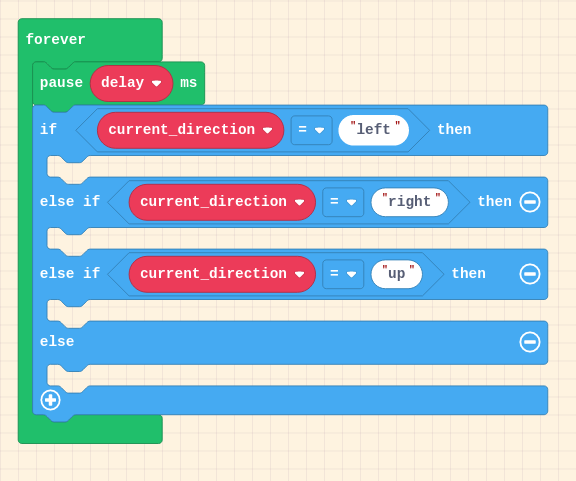
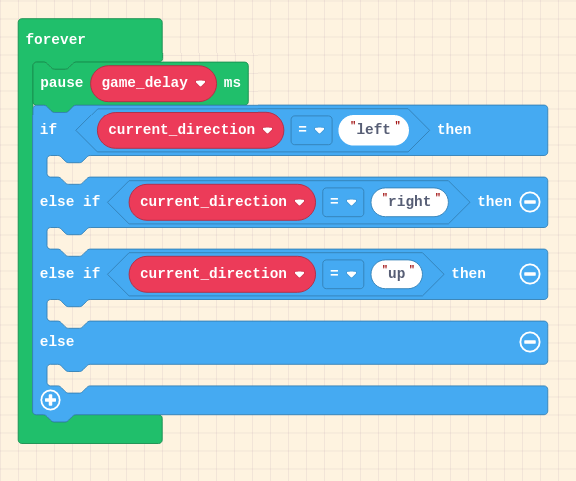
final eyes 2024 update

Changed region(s): [[0.0625, 0.1247, 0.4375, 0.2183]]

diff --git a/eyes-2024/index.html b/eyes-2024/index.html
@@ -254,19 +254,19 @@
 
       <p>Let’s talk about the idea of a game loop. This is a piece of code that runs at a set interval. MakeCode Arcade had a built in function for this, but we are going to create our own so that we can modify how fast the game runs. For this we will need a variable and a loop.</p>
 
-      <p>Start by creating a new variable called delay. This will be set to 640 (ms) in the On Start function.</p>
+      <p>Start by creating a new variable called game_delay. This will be set to 640 (ms) in the On Start function.</p>
 
       <p><img src="res/set-a-variable.png" alt="" /></p>
 
-      <p>We want to rename the variable to delay</p>
+      <p>We want to rename the variable to game_delay</p>
 
       <p><img src="res/rename.png" alt="" /></p>
 
-      <p>Set the variable name to <code class="language-plaintext highlighter-rouge">delay</code> and the value to <code class="language-plaintext highlighter-rouge">640</code>, and then sync it into the <code class="language-plaintext highlighter-rouge">on start</code> block</p>
+      <p>Set the variable name to <code class="language-plaintext highlighter-rouge">game_delay</code> and the value to <code class="language-plaintext highlighter-rouge">640</code>, and then sync it into the <code class="language-plaintext highlighter-rouge">on start</code> block</p>
 
       <p><img src="res/delay.png" alt="" /></p>
 
-      <p>Now we will use this delay in a forever loop. We will grab the <code class="language-plaintext highlighter-rouge">forever</code> block from the Loops module, and place in the Pause function.</p>
+      <p>Now we will use this global(game_delay) in a forever loop. We will grab the <code class="language-plaintext highlighter-rouge">forever</code> block from the Loops module, and place in the Pause function.</p>
 
       <p><img src="res/forever-and-pause.png" alt="" /></p>
 
@@ -360,7 +360,7 @@
       <p>Here is the structure of the code we have so far:</p>
 
       <div class="language-python highlighter-rouge"><div class="highlight"><pre class="highlight"><code><span class="k">def</span> <span class="nf">on_forever</span><span class="p">():</span>
-    <span class="n">pause</span><span class="p">(</span><span class="n">delay</span><span class="p">)</span>
+    <span class="n">pause</span><span class="p">(</span><span class="n">game_delay</span><span class="p">)</span>
     <span class="k">if</span> <span class="n">current_direction</span> <span class="o">==</span> <span class="s">"left"</span><span class="p">:</span>
         <span class="n">mySprite</span><span class="p">.</span><span class="n">x</span> <span class="o">+=</span> <span class="o">-</span><span class="mi">16</span>
     <span class="k">elif</span> <span class="n">current_direction</span> <span class="o">==</span> <span class="s">"right"</span><span class="p">:</span>
@@ -432,7 +432,7 @@
       <div class="language-python highlighter-rouge"><div class="highlight"><pre class="highlight"><code><span class="k">def</span> <span class="nf">on_forever</span><span class="p">():</span>
     <span class="k">global</span> <span class="n">current_direction</span>
     <span class="k">global</span> <span class="n">next_direction</span>
-    <span class="n">pause</span><span class="p">(</span><span class="n">delay</span><span class="p">)</span>
+    <span class="n">pause</span><span class="p">(</span><span class="n">game_delay</span><span class="p">)</span>
     <span class="k">if</span> <span class="n">current_direction</span> <span class="o">==</span> <span class="s">"left"</span><span class="p">:</span>
         <span class="n">mySprite</span><span class="p">.</span><span class="n">x</span> <span class="o">+=</span> <span class="o">-</span><span class="mi">16</span>
     <span class="k">elif</span> <span class="n">current_direction</span> <span class="o">==</span> <span class="s">"right"</span><span class="p">:</span>
@@ -548,7 +548,7 @@
       <p>Let’s also make sure we are calling this function right before we move. Find your on_forever function and add to it:</p>
 
       <div class="language-python highlighter-rouge"><div class="highlight"><pre class="highlight"><code><span class="k">def</span> <span class="nf">on_forever</span><span class="p">():</span>
-    <span class="n">pause</span><span class="p">(</span><span class="n">delay</span><span class="p">)</span>
+    <span class="n">pause</span><span class="p">(</span><span class="n">game_delay</span><span class="p">)</span>
     <span class="n">grow</span><span class="p">()</span>
     <span class="n">move</span><span class="p">()</span>
     <span class="n">turn</span><span class="p">()</span>
@@ -729,125 +729,218 @@
 
       <p>Okay, time to eat some food and grow our snake!</p>
 
-      <details>
-<summary>Complete code so far</summary>
-```
-def on_up_pressed():
-    global next_direction
-    next_direction = "up"
-controller.up.on_event(ControllerButtonEvent.PRESSED, on_up_pressed)
-
-def check_oob():
-    if mySprite.x &lt; 0 or mySprite.y &lt; 0 or mySprite.x &gt; scene.screen_width() or mySprite.y &gt; scene.screen_height():
-        game.set_game_over_message(False, "Game Over. Score: " + convert_to_text(length - 3))
-        game.game_over(False)
-
-def on_left_pressed():
-    global next_direction
-    next_direction = "left"
-controller.left.on_event(ControllerButtonEvent.PRESSED, on_left_pressed)
-
-def spawn_food():
-    global food_pickup, overlaps
-    food_pickup = sprites.create(assets.image("""
-        food
-    """), SpriteKind.food)
-    food_pickup.x += randint(-4, 4) * 16
-    food_pickup.y += randint(-3, 3) * 16
-    if food_pickup.overlaps_with(mySprite):
-        overlaps = True
-    for current_segment2 in tail_segments:
-        if food_pickup.overlaps_with(current_segment2):
-            overlaps = True
-    while overlaps == True:
-        overlaps = False
-        sprites.destroy(food_pickup)
-        food_pickup = sprites.create(assets.image("""
-            food
-        """), SpriteKind.food)
-        food_pickup.x += randint(-4, 4) * 16
-        food_pickup.y += randint(-3, 3) * 16
-        if food_pickup.overlaps_with(mySprite):
-            overlaps = True
-        for current_tail_segment in tail_segments:
-            if food_pickup.overlaps_with(current_tail_segment):
-                overlaps = True
-
-def on_right_pressed():
-    global next_direction
-    next_direction = "right"
-controller.right.on_event(ControllerButtonEvent.PRESSED, on_right_pressed)
-
-def grow():
-    global tail_segment
-    for current_segment in tail_segments:
-        sprites.change_data_number_by(current_segment, "ticks_remaining", -1)
-        if sprites.read_data_number(current_segment, "ticks_remaining") == 0:
-            sprites.destroy(current_segment)
-    tail_segment = sprites.create(assets.image("""
-        body
-    """), SpriteKind.enemy)
-    tail_segment.set_position(mySprite.x, mySprite.y)
-    tail_segments.append(tail_segment)
-    sprites.set_data_number(tail_segment, "ticks_remaining", length)
-def turn():
-    global current_direction
-    if current_direction == "left" or current_direction == "right":
-        if next_direction == "up":
-            current_direction = "up"
-        if next_direction == "down":
-            current_direction = "down"
-    if current_direction == "up" or current_direction == "down":
-        if next_direction == "left":
-            current_direction = "left"
-        if next_direction == "right":
-            current_direction = "right"
-
-def on_down_pressed():
-    global next_direction
-    next_direction = "down"
-controller.down.on_event(ControllerButtonEvent.PRESSED, on_down_pressed)
-
-def move():
-    if current_direction == "left":
-        mySprite.x += -16
-    elif current_direction == "right":
-        mySprite.x += 16
-    elif current_direction == "up":
-        mySprite.y += -16
-    else:
-        mySprite.y += 16
-tail_segment: Sprite = None
-tail_segments: List[Sprite] = []
-overlaps = False
-food_pickup: Sprite = None
-length = 0
-next_direction = ""
-current_direction = ""
-mySprite: Sprite = None
-mySprite = sprites.create(assets.image("""
-    face
-"""), SpriteKind.player)
-delay = 640
-current_direction = "down"
-next_direction = "down"
-length = 3
-spawn_food()
-
-def on_forever():
-    pause(delay)
-    grow()
-    move()
-    turn()
-    check_oob()
-forever(on_forever)
-```
-</details>
-
     </div></div></section>
 <section id="eatingfood"><button class="collapsible">Eating food</button><div class="text-content"><div class="text-inner">
 
-      <p>For our snake to grow it needs to be able to eat the food. So we need to check</p>
+      <p>For our snake to grow it needs to be able to eat the food. So we need to check if it overlapping with food, and if so, devour it! If it does, let’s do four things</p>
+      <ul>
+        <li>destory the food</li>
+        <li>we are going to speed up the game a big by decreasing the pause delay,</li>
+        <li>we are also going to spawn in a new food</li>
+        <li>we are going to increase the snakes length
+Let’s put all of this in a new function called <code class="language-plaintext highlighter-rouge">check_eat</code></li>
+      </ul>
+
+      <p>Challenge - you have the tools to do all of these things! It’s just checking collisions, setting variables and calling functions. Take a stab at writing it yourself first. Also, where are you going to call the check?</p>
+
+      <p>Extra challenge - because we ate food, all the existing segments should stick around for one extra tick. Can you figure out how to increment them all by one?</p>
+
+      <p>Solution:</p>
+      <div class="language-python highlighter-rouge"><div class="highlight"><pre class="highlight"><code><span class="k">def</span> <span class="nf">check_eat</span><span class="p">():</span>
+    <span class="k">global</span> <span class="n">game_delay</span>
+    <span class="k">global</span> <span class="n">length</span>
+    <span class="k">global</span> <span class="n">tail_segments</span>
+    <span class="k">if</span> <span class="n">mySprite</span><span class="p">.</span><span class="n">overlaps_with</span><span class="p">(</span><span class="n">food_pickup</span><span class="p">):</span>
+        <span class="n">game_delay</span> <span class="o">-=</span> <span class="mi">10</span>
+        <span class="n">length</span> <span class="o">+=</span> <span class="mi">1</span>
+        <span class="n">sprites</span><span class="p">.</span><span class="n">destroy</span><span class="p">(</span><span class="n">food_pickup</span><span class="p">)</span>
+        <span class="n">spawn_food</span><span class="p">()</span>
+        <span class="k">for</span> <span class="n">current_segment</span> <span class="ow">in</span> <span class="n">tail_segments</span><span class="p">:</span>
+            <span class="n">sprites</span><span class="p">.</span><span class="n">change_data_number_by</span><span class="p">(</span><span class="n">current_segment</span><span class="p">,</span> <span class="s">"ticks_remaining"</span><span class="p">,</span> <span class="mi">1</span><span class="p">)</span>
+</code></pre></div>      </div>
+
+      <p>I am calling this function in the forever-loop, after move:</p>
+      <div class="language-python highlighter-rouge"><div class="highlight"><pre class="highlight"><code><span class="k">def</span> <span class="nf">on_forever</span><span class="p">():</span>
+    <span class="k">global</span><span class="p">(</span><span class="n">game_delay</span><span class="p">)</span>
+    <span class="n">pause</span><span class="p">(</span><span class="n">game_delay</span><span class="p">)</span>
+    <span class="n">grow</span><span class="p">()</span>
+    <span class="n">move</span><span class="p">()</span>
+    <span class="n">check_eat</span><span class="p">()</span>
+    <span class="n">turn</span><span class="p">()</span>
+    <span class="n">check_oob</span><span class="p">()</span>
+<span class="n">forever</span><span class="p">(</span><span class="n">on_forever</span><span class="p">)</span>
+</code></pre></div>      </div>
+
+    </div></div></section>
+<section id="canttouchtail"><button class="collapsible">Can't Touch Tail</button><div class="text-content"><div class="text-inner">
+
+      <p>A secondary loss condition in this game is getting a game over if the head collides with any segment of the tail. You have all the tools you need to implement this. Here’s the strategy:</p>
+      <ul>
+        <li>Define the function
+          <ul>
+            <li>Loop over each segment of the tail</li>
+            <li>Check if the head has collided with that segment</li>
+            <li>If it has, call the Game Over code we looked at earlier</li>
+          </ul>
+        </li>
+        <li>Call the function at an appropriate time</li>
+      </ul>
+
+      <p>Good Luck!</p>
+
+    </div></div></section>
+<section id="deployingonhardware"><button class="collapsible">Deploying on Hardware</button><div class="text-content"><div class="text-inner">
+
+      <p>To deploy your project on the kit from the lab, download it here:</p>
+
+      <p><img src="res/download-for-hardware.png" alt="" /></p>
+
+      <p>The first time you try to download, it will ask you which type of device you have. We have the following:</p>
+
+      <p><img src="res/retro-arcade.png" alt="" /></p>
+
+      <p>A file will get saved to your computer.</p>
+
+      <p>Connect a USB cable to both the console as well as your computer. The system will mount as a USB storage device. Simply drag and drop the file over, and watch the magic happen!</p>
+
+      <p><img src="res/adam-is-bad-at-snake.png" alt="" /></p>
+
+      <p><img src="res/well-maybe-not-that-bad.png" alt="" /></p>
+
+    </div></div></section>
+<section id="finalcode"><button class="collapsible">Final Code</button><div class="text-content"><div class="text-inner">
+
+      <p>For your records, here is my copy of the final code. If this doesn’t work for you out of the box, then you likely named your sprites incorrectly.</p>
+
+      <div class="language-python highlighter-rouge"><div class="highlight"><pre class="highlight"><code><span class="k">def</span> <span class="nf">on_up_pressed</span><span class="p">():</span>
+    <span class="k">global</span> <span class="n">next_direction</span>
+    <span class="n">next_direction</span> <span class="o">=</span> <span class="s">"up"</span>
+<span class="n">controller</span><span class="p">.</span><span class="n">up</span><span class="p">.</span><span class="n">on_event</span><span class="p">(</span><span class="n">ControllerButtonEvent</span><span class="p">.</span><span class="n">PRESSED</span><span class="p">,</span> <span class="n">on_up_pressed</span><span class="p">)</span>
+
+<span class="k">def</span> <span class="nf">check_oob</span><span class="p">():</span>
+    <span class="k">if</span> <span class="n">mySprite</span><span class="p">.</span><span class="n">x</span> <span class="o">&lt;</span> <span class="mi">0</span> <span class="ow">or</span> <span class="n">mySprite</span><span class="p">.</span><span class="n">y</span> <span class="o">&lt;</span> <span class="mi">0</span> <span class="ow">or</span> <span class="n">mySprite</span><span class="p">.</span><span class="n">x</span> <span class="o">&gt;</span> <span class="n">scene</span><span class="p">.</span><span class="n">screen_width</span><span class="p">()</span> <span class="ow">or</span> <span class="n">mySprite</span><span class="p">.</span><span class="n">y</span> <span class="o">&gt;</span> <span class="n">scene</span><span class="p">.</span><span class="n">screen_height</span><span class="p">():</span>
+        <span class="n">game</span><span class="p">.</span><span class="n">set_game_over_message</span><span class="p">(</span><span class="bp">False</span><span class="p">,</span> <span class="s">"Game Over. Score: "</span> <span class="o">+</span> <span class="n">convert_to_text</span><span class="p">(</span><span class="n">length</span> <span class="o">-</span> <span class="mi">3</span><span class="p">))</span>
+        <span class="n">game</span><span class="p">.</span><span class="n">game_over</span><span class="p">(</span><span class="bp">False</span><span class="p">)</span>
+
+<span class="k">def</span> <span class="nf">on_left_pressed</span><span class="p">():</span>
+    <span class="k">global</span> <span class="n">next_direction</span>
+    <span class="n">next_direction</span> <span class="o">=</span> <span class="s">"left"</span>
+<span class="n">controller</span><span class="p">.</span><span class="n">left</span><span class="p">.</span><span class="n">on_event</span><span class="p">(</span><span class="n">ControllerButtonEvent</span><span class="p">.</span><span class="n">PRESSED</span><span class="p">,</span> <span class="n">on_left_pressed</span><span class="p">)</span>
+
+<span class="k">def</span> <span class="nf">spawn_food</span><span class="p">():</span>
+    <span class="k">global</span> <span class="n">food_pickup</span><span class="p">,</span> <span class="n">overlaps</span>
+    <span class="n">food_pickup</span> <span class="o">=</span> <span class="n">sprites</span><span class="p">.</span><span class="n">create</span><span class="p">(</span><span class="n">assets</span><span class="p">.</span><span class="n">image</span><span class="p">(</span><span class="s">"""
+        food
+    """</span><span class="p">),</span> <span class="n">SpriteKind</span><span class="p">.</span><span class="n">food</span><span class="p">)</span>
+    <span class="n">food_pickup</span><span class="p">.</span><span class="n">x</span> <span class="o">+=</span> <span class="n">randint</span><span class="p">(</span><span class="o">-</span><span class="mi">4</span><span class="p">,</span> <span class="mi">4</span><span class="p">)</span> <span class="o">*</span> <span class="mi">16</span>
+    <span class="n">food_pickup</span><span class="p">.</span><span class="n">y</span> <span class="o">+=</span> <span class="n">randint</span><span class="p">(</span><span class="o">-</span><span class="mi">3</span><span class="p">,</span> <span class="mi">3</span><span class="p">)</span> <span class="o">*</span> <span class="mi">16</span>
+    <span class="k">if</span> <span class="n">food_pickup</span><span class="p">.</span><span class="n">overlaps_with</span><span class="p">(</span><span class="n">mySprite</span><span class="p">):</span>
+        <span class="n">overlaps</span> <span class="o">=</span> <span class="bp">True</span>
+    <span class="k">for</span> <span class="n">current_segment22</span> <span class="ow">in</span> <span class="n">tail_segments</span><span class="p">:</span>
+        <span class="k">if</span> <span class="n">food_pickup</span><span class="p">.</span><span class="n">overlaps_with</span><span class="p">(</span><span class="n">current_segment22</span><span class="p">):</span>
+            <span class="n">overlaps</span> <span class="o">=</span> <span class="bp">True</span>
+    <span class="k">while</span> <span class="n">overlaps</span> <span class="o">==</span> <span class="bp">True</span><span class="p">:</span>
+        <span class="n">overlaps</span> <span class="o">=</span> <span class="bp">False</span>
+        <span class="n">sprites</span><span class="p">.</span><span class="n">destroy</span><span class="p">(</span><span class="n">food_pickup</span><span class="p">)</span>
+        <span class="n">food_pickup</span> <span class="o">=</span> <span class="n">sprites</span><span class="p">.</span><span class="n">create</span><span class="p">(</span><span class="n">assets</span><span class="p">.</span><span class="n">image</span><span class="p">(</span><span class="s">"""
+            food
+        """</span><span class="p">),</span> <span class="n">SpriteKind</span><span class="p">.</span><span class="n">food</span><span class="p">)</span>
+        <span class="n">food_pickup</span><span class="p">.</span><span class="n">x</span> <span class="o">+=</span> <span class="n">randint</span><span class="p">(</span><span class="o">-</span><span class="mi">4</span><span class="p">,</span> <span class="mi">4</span><span class="p">)</span> <span class="o">*</span> <span class="mi">16</span>
+        <span class="n">food_pickup</span><span class="p">.</span><span class="n">y</span> <span class="o">+=</span> <span class="n">randint</span><span class="p">(</span><span class="o">-</span><span class="mi">3</span><span class="p">,</span> <span class="mi">3</span><span class="p">)</span> <span class="o">*</span> <span class="mi">16</span>
+        <span class="k">if</span> <span class="n">food_pickup</span><span class="p">.</span><span class="n">overlaps_with</span><span class="p">(</span><span class="n">mySprite</span><span class="p">):</span>
+            <span class="n">overlaps</span> <span class="o">=</span> <span class="bp">True</span>
+        <span class="k">for</span> <span class="n">current_tail_segment</span> <span class="ow">in</span> <span class="n">tail_segments</span><span class="p">:</span>
+            <span class="k">if</span> <span class="n">food_pickup</span><span class="p">.</span><span class="n">overlaps_with</span><span class="p">(</span><span class="n">current_tail_segment</span><span class="p">):</span>
+                <span class="n">overlaps</span> <span class="o">=</span> <span class="bp">True</span>
+<span class="k">def</span> <span class="nf">check_eat</span><span class="p">():</span>
+    <span class="k">global</span> <span class="n">game_delay</span><span class="p">,</span> <span class="n">length</span>
+    <span class="k">if</span> <span class="n">mySprite</span><span class="p">.</span><span class="n">overlaps_with</span><span class="p">(</span><span class="n">food_pickup</span><span class="p">):</span>
+        <span class="n">game_delay</span> <span class="o">+=</span> <span class="mi">0</span> <span class="o">-</span> <span class="mi">10</span>
+        <span class="n">length</span> <span class="o">+=</span> <span class="mi">1</span>
+        <span class="n">sprites</span><span class="p">.</span><span class="n">destroy</span><span class="p">(</span><span class="n">food_pickup</span><span class="p">)</span>
+        <span class="n">spawn_food</span><span class="p">()</span>
+        <span class="k">for</span> <span class="n">current_segment2</span> <span class="ow">in</span> <span class="n">tail_segments</span><span class="p">:</span>
+            <span class="n">sprites</span><span class="p">.</span><span class="n">change_data_number_by</span><span class="p">(</span><span class="n">current_segment2</span><span class="p">,</span> <span class="s">"ticks_remaining"</span><span class="p">,</span> <span class="mi">1</span><span class="p">)</span>
+
+<span class="k">def</span> <span class="nf">on_right_pressed</span><span class="p">():</span>
+    <span class="k">global</span> <span class="n">next_direction</span>
+    <span class="n">next_direction</span> <span class="o">=</span> <span class="s">"right"</span>
+<span class="n">controller</span><span class="p">.</span><span class="n">right</span><span class="p">.</span><span class="n">on_event</span><span class="p">(</span><span class="n">ControllerButtonEvent</span><span class="p">.</span><span class="n">PRESSED</span><span class="p">,</span> <span class="n">on_right_pressed</span><span class="p">)</span>
+
+<span class="k">def</span> <span class="nf">grow</span><span class="p">():</span>
+    <span class="k">global</span> <span class="n">tail_segment</span>
+    <span class="k">for</span> <span class="n">current_segment</span> <span class="ow">in</span> <span class="n">tail_segments</span><span class="p">:</span>
+        <span class="n">sprites</span><span class="p">.</span><span class="n">change_data_number_by</span><span class="p">(</span><span class="n">current_segment</span><span class="p">,</span> <span class="s">"ticks_remaining"</span><span class="p">,</span> <span class="o">-</span><span class="mi">1</span><span class="p">)</span>
+        <span class="k">if</span> <span class="n">sprites</span><span class="p">.</span><span class="n">read_data_number</span><span class="p">(</span><span class="n">current_segment</span><span class="p">,</span> <span class="s">"ticks_remaining"</span><span class="p">)</span> <span class="o">==</span> <span class="mi">0</span><span class="p">:</span>
+            <span class="n">sprites</span><span class="p">.</span><span class="n">destroy</span><span class="p">(</span><span class="n">current_segment</span><span class="p">)</span>
+    <span class="n">tail_segment</span> <span class="o">=</span> <span class="n">sprites</span><span class="p">.</span><span class="n">create</span><span class="p">(</span><span class="n">assets</span><span class="p">.</span><span class="n">image</span><span class="p">(</span><span class="s">"""
+        body
+    """</span><span class="p">),</span> <span class="n">SpriteKind</span><span class="p">.</span><span class="n">enemy</span><span class="p">)</span>
+    <span class="n">tail_segment</span><span class="p">.</span><span class="n">set_position</span><span class="p">(</span><span class="n">mySprite</span><span class="p">.</span><span class="n">x</span><span class="p">,</span> <span class="n">mySprite</span><span class="p">.</span><span class="n">y</span><span class="p">)</span>
+    <span class="n">tail_segments</span><span class="p">.</span><span class="n">append</span><span class="p">(</span><span class="n">tail_segment</span><span class="p">)</span>
+    <span class="n">sprites</span><span class="p">.</span><span class="n">set_data_number</span><span class="p">(</span><span class="n">tail_segment</span><span class="p">,</span> <span class="s">"ticks_remaining"</span><span class="p">,</span> <span class="n">length</span><span class="p">)</span>
+<span class="k">def</span> <span class="nf">turn</span><span class="p">():</span>
+    <span class="k">global</span> <span class="n">current_direction</span>
+    <span class="k">if</span> <span class="n">current_direction</span> <span class="o">==</span> <span class="s">"left"</span> <span class="ow">or</span> <span class="n">current_direction</span> <span class="o">==</span> <span class="s">"right"</span><span class="p">:</span>
+        <span class="k">if</span> <span class="n">next_direction</span> <span class="o">==</span> <span class="s">"up"</span><span class="p">:</span>
+            <span class="n">current_direction</span> <span class="o">=</span> <span class="s">"up"</span>
+        <span class="k">if</span> <span class="n">next_direction</span> <span class="o">==</span> <span class="s">"down"</span><span class="p">:</span>
+            <span class="n">current_direction</span> <span class="o">=</span> <span class="s">"down"</span>
+    <span class="k">if</span> <span class="n">current_direction</span> <span class="o">==</span> <span class="s">"up"</span> <span class="ow">or</span> <span class="n">current_direction</span> <span class="o">==</span> <span class="s">"down"</span><span class="p">:</span>
+        <span class="k">if</span> <span class="n">next_direction</span> <span class="o">==</span> <span class="s">"left"</span><span class="p">:</span>
+            <span class="n">current_direction</span> <span class="o">=</span> <span class="s">"left"</span>
+        <span class="k">if</span> <span class="n">next_direction</span> <span class="o">==</span> <span class="s">"right"</span><span class="p">:</span>
+            <span class="n">current_direction</span> <span class="o">=</span> <span class="s">"right"</span>
+
+<span class="k">def</span> <span class="nf">on_down_pressed</span><span class="p">():</span>
+    <span class="k">global</span> <span class="n">next_direction</span>
+    <span class="n">next_direction</span> <span class="o">=</span> <span class="s">"down"</span>
+<span class="n">controller</span><span class="p">.</span><span class="n">down</span><span class="p">.</span><span class="n">on_event</span><span class="p">(</span><span class="n">ControllerButtonEvent</span><span class="p">.</span><span class="n">PRESSED</span><span class="p">,</span> <span class="n">on_down_pressed</span><span class="p">)</span>
+
+<span class="k">def</span> <span class="nf">move</span><span class="p">():</span>
+    <span class="k">if</span> <span class="n">current_direction</span> <span class="o">==</span> <span class="s">"left"</span><span class="p">:</span>
+        <span class="n">mySprite</span><span class="p">.</span><span class="n">x</span> <span class="o">+=</span> <span class="o">-</span><span class="mi">16</span>
+    <span class="k">elif</span> <span class="n">current_direction</span> <span class="o">==</span> <span class="s">"right"</span><span class="p">:</span>
+        <span class="n">mySprite</span><span class="p">.</span><span class="n">x</span> <span class="o">+=</span> <span class="mi">16</span>
+    <span class="k">elif</span> <span class="n">current_direction</span> <span class="o">==</span> <span class="s">"up"</span><span class="p">:</span>
+        <span class="n">mySprite</span><span class="p">.</span><span class="n">y</span> <span class="o">+=</span> <span class="o">-</span><span class="mi">16</span>
+    <span class="k">else</span><span class="p">:</span>
+        <span class="n">mySprite</span><span class="p">.</span><span class="n">y</span> <span class="o">+=</span> <span class="mi">16</span>
+
+<span class="k">def</span> <span class="nf">check_eating_tail</span><span class="p">():</span>
+    <span class="k">for</span> <span class="n">current_segment3</span> <span class="ow">in</span> <span class="n">tail_segments</span><span class="p">:</span>
+        <span class="k">if</span> <span class="n">mySprite</span><span class="p">.</span><span class="n">overlaps_with</span><span class="p">(</span><span class="n">current_segment3</span><span class="p">):</span>
+            <span class="n">game</span><span class="p">.</span><span class="n">set_game_over_message</span><span class="p">(</span><span class="bp">False</span><span class="p">,</span> <span class="s">"Game Over. Score: "</span> <span class="o">+</span> <span class="n">convert_to_text</span><span class="p">(</span><span class="n">length</span> <span class="o">-</span> <span class="mi">3</span><span class="p">))</span>
+            <span class="n">game</span><span class="p">.</span><span class="n">game_over</span><span class="p">(</span><span class="bp">False</span><span class="p">)</span>
+
+<span class="n">tail_segment</span><span class="p">:</span> <span class="n">Sprite</span> <span class="o">=</span> <span class="bp">None</span>
+<span class="n">tail_segments</span><span class="p">:</span> <span class="n">List</span><span class="p">[</span><span class="n">Sprite</span><span class="p">]</span> <span class="o">=</span> <span class="p">[]</span>
+<span class="n">overlaps</span> <span class="o">=</span> <span class="bp">False</span>
+<span class="n">food_pickup</span><span class="p">:</span> <span class="n">Sprite</span> <span class="o">=</span> <span class="bp">None</span>
+<span class="n">length</span> <span class="o">=</span> <span class="mi">0</span>
+<span class="n">next_direction</span> <span class="o">=</span> <span class="s">""</span>
+<span class="n">current_direction</span> <span class="o">=</span> <span class="s">""</span>
+<span class="n">mySprite</span><span class="p">:</span> <span class="n">Sprite</span> <span class="o">=</span> <span class="bp">None</span>
+<span class="n">mySprite</span> <span class="o">=</span> <span class="n">sprites</span><span class="p">.</span><span class="n">create</span><span class="p">(</span><span class="n">assets</span><span class="p">.</span><span class="n">image</span><span class="p">(</span><span class="s">"""
+    face
+"""</span><span class="p">),</span> <span class="n">SpriteKind</span><span class="p">.</span><span class="n">player</span><span class="p">)</span>
+<span class="n">game_delay</span> <span class="o">=</span> <span class="mi">640</span>
+<span class="n">current_direction</span> <span class="o">=</span> <span class="s">"down"</span>
+<span class="n">next_direction</span> <span class="o">=</span> <span class="s">"down"</span>
+<span class="n">length</span> <span class="o">=</span> <span class="mi">3</span>
+<span class="n">spawn_food</span><span class="p">()</span>
+
+<span class="k">def</span> <span class="nf">on_forever</span><span class="p">():</span>
+    <span class="n">pause</span><span class="p">(</span><span class="n">game_delay</span><span class="p">)</span>
+    <span class="n">grow</span><span class="p">()</span>
+    <span class="n">move</span><span class="p">()</span>
+    <span class="n">check_eat</span><span class="p">()</span>
+    <span class="n">turn</span><span class="p">()</span>
+    <span class="n">check_oob</span><span class="p">()</span>
+    <span class="n">check_eating_tail</span><span class="p">()</span>
+<span class="n">forever</span><span class="p">(</span><span class="n">on_forever</span><span class="p">)</span>
+
+</code></pre></div>      </div>
     </div></div></section>
 
     </main>
